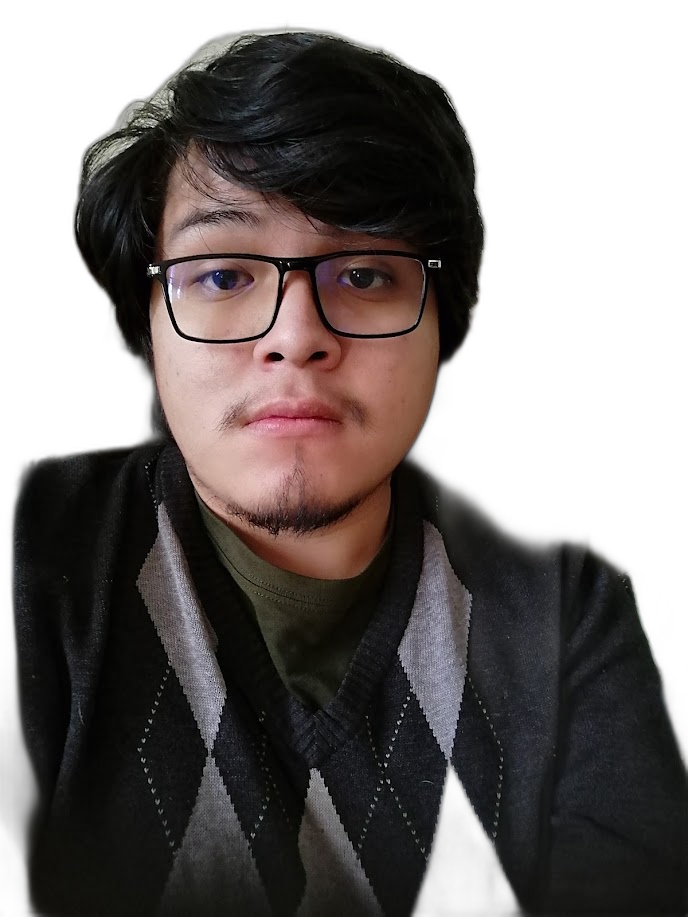
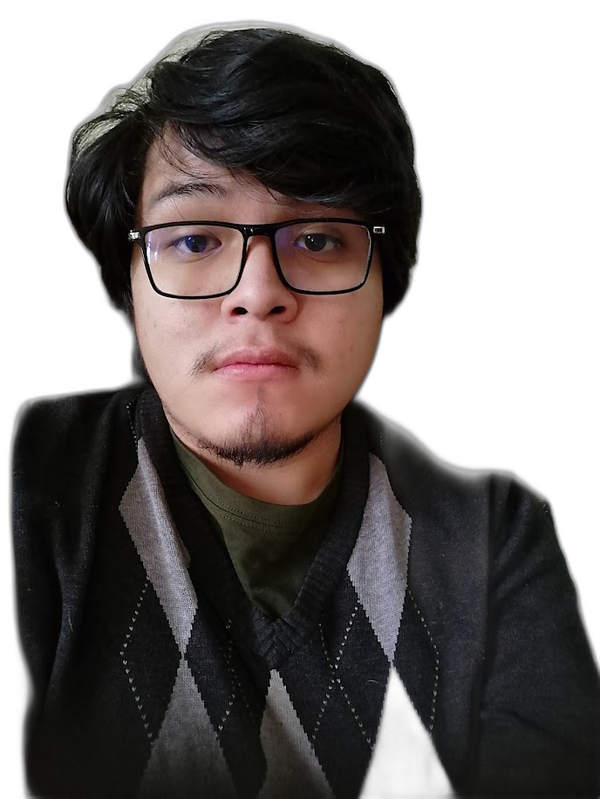
fix: Marko Zapata nombre correcto + fotos Marcos Nahuel Ríos y Paula Camila González con fondo blanco

diff --git a/src/app/components/latam-map/latam-map.ts b/src/app/components/latam-map/latam-map.ts
@@ -57,6 +57,7 @@ export class LatamMap {
     'Mariana Valdez Yañez.png': '51% 55%', 'Mariela Escobar.png': '50% 42%',
     'María Belén Terán.png': '50% 31%', 'María Cecilia Merino.png': '48% 44%',
     'María Guadalupe Juárez Hernández.png': '48% 45%', 'Marko Aurelio Zapata.png': '42% 35%',
+    'Marcos Nahuel Rios.png': '52% 57%', 'Paula Camila Gonzalez.png': '51% 34%',
     'Matias Tosini.png': '51% 42%', 'Mishell Criollo.png': '45% 24%',
     'Nelson Mesías.png': '49% 36%', 'Nohely Cáceres.png': '48% 29%',
     'Pedro Raul Mendoza.png': '54% 39%', 'Pilar Montealegre Vargas.png': '50% 44%',
@@ -152,7 +153,7 @@ export class LatamMap {
       members: [
         { name: 'Leonel Anaya', role: 'Financiamiento y Sostenibilidad', initials: 'LA', photo: 'equipo/Leonel Anaya.png' },
         { name: 'Camila Naranjo', role: 'Financiamiento y Sostenibilidad', initials: 'CN', photo: 'equipo/Camila Naranjo.png' },
-        { name: 'Paula Camila González', role: 'Gestión de Proyectos', initials: 'PG' },
+        { name: 'Paula Camila González', role: 'Gestión de Proyectos', initials: 'PG', photo: 'equipo/Paula Camila Gonzalez.png' },
         { name: 'Valentina Ramírez', role: 'Política y Regulación (Head)', initials: 'VR', photo: 'equipo/Valentina Ramírez.png' },
         { name: 'Mishell Criollo', role: 'Expansión', initials: 'MC', photo: 'equipo/Mishell Criollo.png' },
         { name: 'Vladimir Tandapiico', role: 'Expansión', initials: 'VT', photo: 'equipo/Wladimir Tandapilco.png' },
@@ -177,7 +178,7 @@ export class LatamMap {
       color: '#10B981', colorHover: '#34D399',
       members: [
         { name: 'Nohely Cáceres', role: 'Financiamiento y Sostenibilidad', initials: 'NC', photo: 'equipo/Nohely Cáceres.png' },
-        { name: 'Mario Aurelio Zapata', role: 'Gestión de Proyectos', initials: 'MZ' },
+        { name: 'Marko Aurelio Zapata', role: 'Gestión de Proyectos', initials: 'MZ', photo: 'equipo/Marko Aurelio Zapata.png' },
         { name: 'Fabrizio Yasuo Flores', role: 'Expansión', initials: 'FF', photo: 'equipo/Fabrizio Flores.png' },
         { name: 'Pedro Raúl Javier Mendoza', role: 'Gestión de Actividades', initials: 'PM', photo: 'equipo/Pedro Raul Mendoza.png' },
         { name: 'Luciana Castro', role: 'Diseño', initials: 'LC', photo: 'equipo/Luciana Castro Camavilca foto en blanco.png' },
@@ -228,7 +229,7 @@ export class LatamMap {
       color: '#0EA5E9', colorHover: '#38BDF8',
       members: [
         { name: 'Mariela Escobar', role: 'Financiamiento y Sostenibilidad', initials: 'ME', photo: 'equipo/Mariela Escobar.png' },
-        { name: 'Marcos Nahuel Ríos', role: 'Gestión de Proyectos', initials: 'MR' },
+        { name: 'Marcos Nahuel Ríos', role: 'Gestión de Proyectos', initials: 'MR', photo: 'equipo/Marcos Nahuel Rios.png' },
         { name: 'Estefanía Mansilla', role: 'Expansión', initials: 'EM' },
         { name: 'María Cecilia Merino', role: 'Expansión', initials: 'MM', photo: 'equipo/María Cecilia Merino.png' },
         { name: 'Jessica Martin', role: 'Capacitación', initials: 'JM' },

diff --git a/src/app/pages/home/home.ts b/src/app/pages/home/home.ts
@@ -93,6 +93,8 @@ export class Home {
     'María Cecilia Merino.png':                 '48% 44%',
     'María Guadalupe Juárez Hernández.png':     '48% 45%',
     'Marko Aurelio Zapata.png':                 '42% 35%',
+    'Marcos Nahuel Rios.png':                   '52% 57%',
+    'Paula Camila Gonzalez.png':                '51% 34%',
     'Matias Tosini.png':                        '51% 42%',
     'Mishell Criollo.png':                      '45% 24%',
     'Nelson Mesías.png':                        '49% 36%',
@@ -179,11 +181,11 @@ export class Home {
       nombre: 'Gestión de Proyectos',
       miembros: [
         { name: 'María Belén Terán', role: 'Miembro', country: 'Ecuador', flag: '🇪🇨', initials: 'MB', photo: 'equipo/María Belén Terán.png' },
-        { name: 'Mario Aurelio Zapata', role: 'Miembro', country: 'Perú', flag: '🇵🇪', initials: 'MZ' },
+        { name: 'Marko Aurelio Zapata', role: 'Miembro', country: 'Perú', flag: '🇵🇪', initials: 'MZ', photo: 'equipo/Marko Aurelio Zapata.png' },
         { name: 'Luis Camilo Díaz-Duarte', role: 'Miembro', country: 'Colombia', flag: '🇨🇴', initials: 'LD', photo: 'equipo/Luis Camilo Díaz-Duarte.png' },
-        { name: 'Marcos Nahuel Ríos', role: 'Miembro', country: 'Argentina', flag: '🇦🇷', initials: 'MR' },
+        { name: 'Marcos Nahuel Ríos', role: 'Miembro', country: 'Argentina', flag: '🇦🇷', initials: 'MR', photo: 'equipo/Marcos Nahuel Rios.png' },
         { name: 'Anaís Caviedes', role: 'Miembro', country: 'Chile', flag: '🇨🇱', initials: 'AC', photo: 'equipo/Anaís Caviedes.png' },
-        { name: 'Paula Camila González', role: 'Miembro', country: 'Ecuador', flag: '🇪🇨', initials: 'PG' },
+        { name: 'Paula Camila González', role: 'Miembro', country: 'Ecuador', flag: '🇪🇨', initials: 'PG', photo: 'equipo/Paula Camila Gonzalez.png' },
         { name: 'Kimberly Raquel Aragón', role: 'Miembro', country: 'Guatemala', flag: '🇬🇹', initials: 'KA', photo: 'equipo/Kimberly Aragón.png' },
       ],
     },
